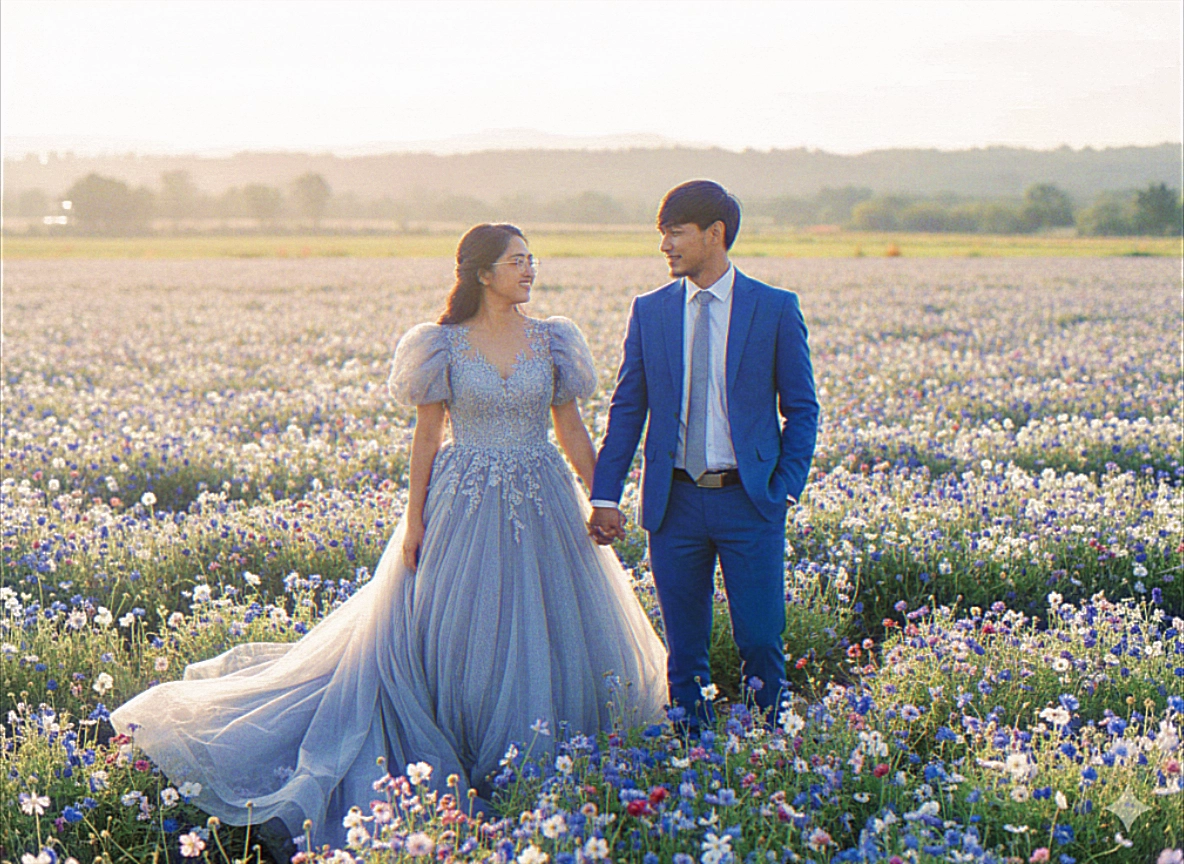
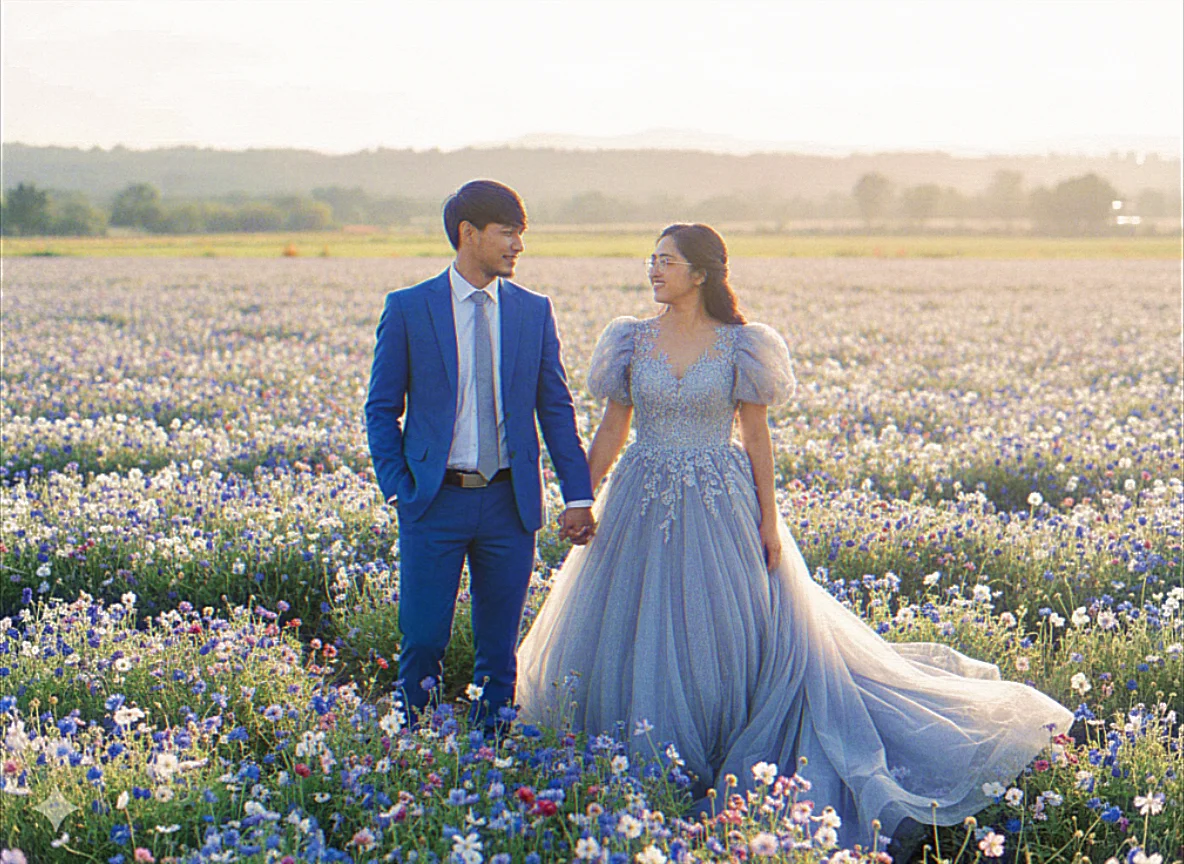
feat: Home section

diff --git a/src/components/Home.tsx b/src/components/Home.tsx
@@ -1,46 +1,60 @@
 import Countdown from './Countdown';
+import WeddingButton from './WeddingButton';
 
 export default function Home() {
   return (
     <section className="relative h-screen w-full overflow-hidden">
-      {/* Background Image */}
-      <div
-        className="absolute inset-0 bg-cover bg-center"
-        style={{
-          backgroundImage: "url('/images/home.webp')",
-        }}
-      />
+    {/* Background Images */}
+    <div
+        className="absolute inset-0 bg-cover bg-center hidden lg:block"
+        style={{ backgroundImage: "url('/images/home.webp')" }}
+    />
+    <div
+        className="absolute inset-0 bg-cover bg-center lg:hidden"
+        style={{ backgroundImage: "url('/images/homeMobile.webp')" }}
+    />
 
-      {/* Dark overlay for readability */}
-      <div className="absolute inset-0 bg-black/40" />
+    {/* Overlay */}
+    <div className="absolute inset-0 bg-black/40" />
 
-      {/* Content */}
-      <div className="relative z-10 flex h-full items-center justify-center flex-col">
-        <div className="text-center text-white px-6">
-          
-          {/* Names */}
-          <h1 className="text-5xl md:text-7xl font-light tracking-wide italic"
-              style={{ fontFamily: "'Great Vibes', cursive" }}>
-            Rhandy & Franchaska
-          </h1>
+    {/* Content */}
+    <div className="relative z-10 flex h-full flex-col items-center justify-center pt-20">
+        <div className="text-center text-white px-6 mb-8">
 
-          {/* Subtitle */}
-          <p className="mt-4 text-sm md:text-base tracking-widest uppercase opacity-80">
+        {/* Desktop */}
+        <h1
+            className="hidden lg:block text-9xl font-light tracking-wide italic"
+            style={{ fontFamily: "'Great Vibes', cursive" }}
+        >
+            Rhandy & Francheska
+        </h1>
+
+        {/* Mobile */}
+        <h1
+            className="lg:hidden text-[5rem] leading-none font-light tracking-wide italic"
+            style={{ fontFamily: "'Great Vibes', cursive" }}
+        >
+            <p>Rhandy</p>
+            <p className="text-[3rem]">&</p>
+            <p>Francheska</p>
+        </h1>
+
+        <p className="mt-4 text-sm md:text-base tracking-widest uppercase opacity-80">
             Wedding Celebration
-          </p>
-
-          {/* Optional date */}
-          <p className="mt-2 text-xs md:text-sm opacity-70">
+        </p>
+        <p className="mt-2 text-xs md:text-sm opacity-70">
             Save the Date • 2026
-          </p>
+        </p>
         </div>
 
-        {/* Countdown */}
-            <div className="mt-8">
-                <Countdown />
-            </div>
+        {/* RSVP Button */}
+        <WeddingButton label="RSVP Now" onClick={() => navigate('/rsvp')} />
 
-      </div>
+        {/* Countdown */}
+        <div className="absolute bottom-20">
+        <Countdown />
+        </div>
+    </div>
     </section>
   );
 }

diff --git a/src/components/WeddingButton.tsx b/src/components/WeddingButton.tsx
@@ -1,0 +1,21 @@
+import { motion } from 'framer-motion'
+
+export default function WeddingButton({
+  label = "RSVP Now",
+  onClick
+}: {
+  label?: string
+  onClick?: () => void
+}) {
+  return (
+    <motion.button
+      onClick={onClick}
+      className="px-12 py-3 text-[11px] tracking-[0.25em] uppercase border border-[#C9A84C] text-[#C9A84C] bg-white"
+      whileHover={{ backgroundColor: '#C9A84C', color: '#ffffff' }}
+      whileTap={{ backgroundColor: '#C9A84C', color: '#ffffff', scale: 0.97 }}
+      transition={{ duration: 0.25, ease: 'easeInOut' }}
+    >
+      {label}
+    </motion.button>
+  )
+}